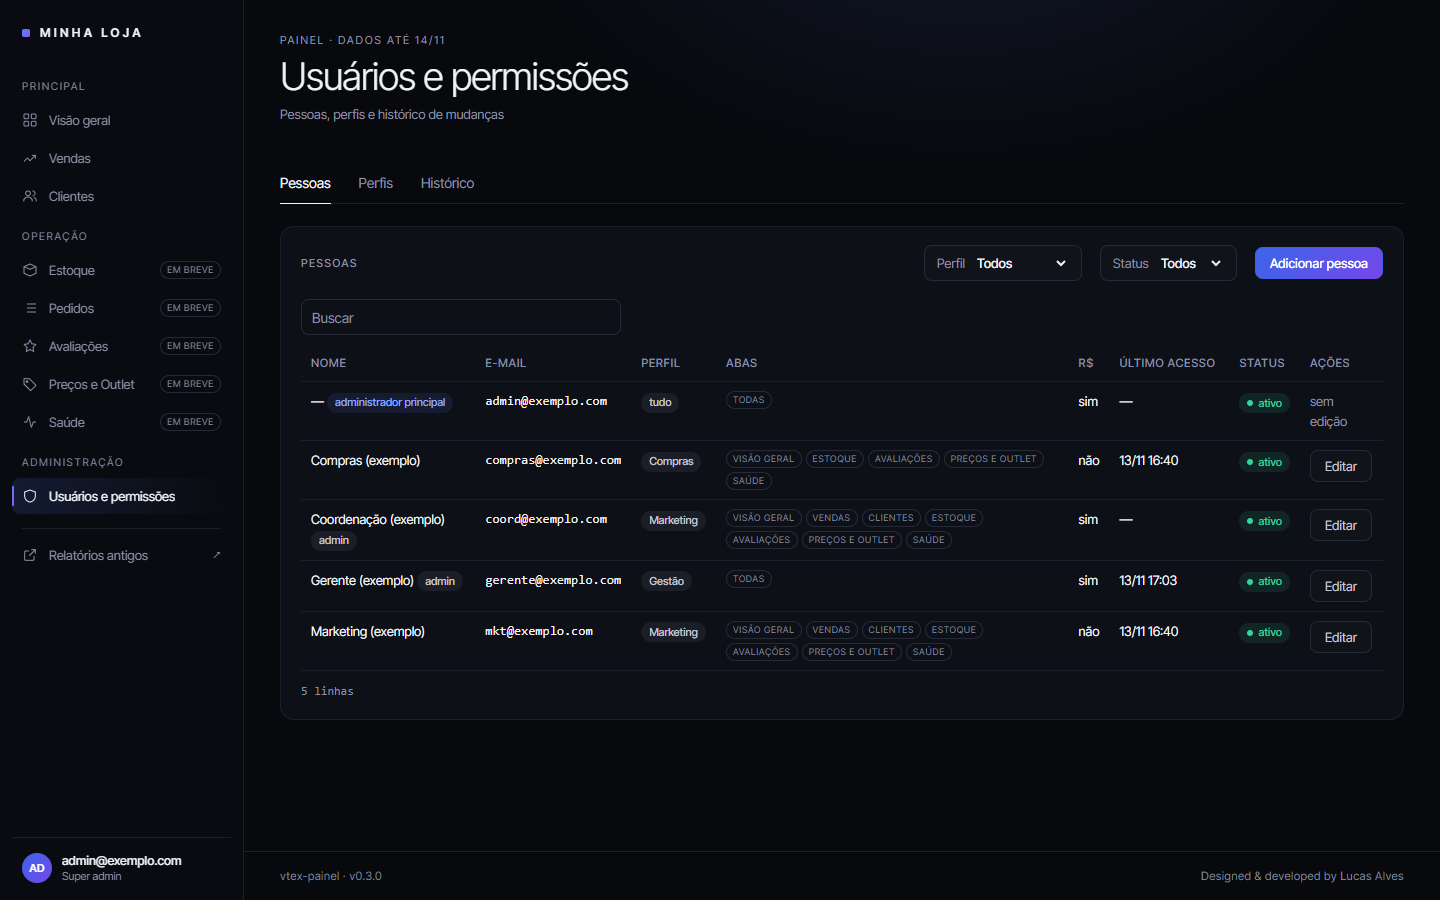
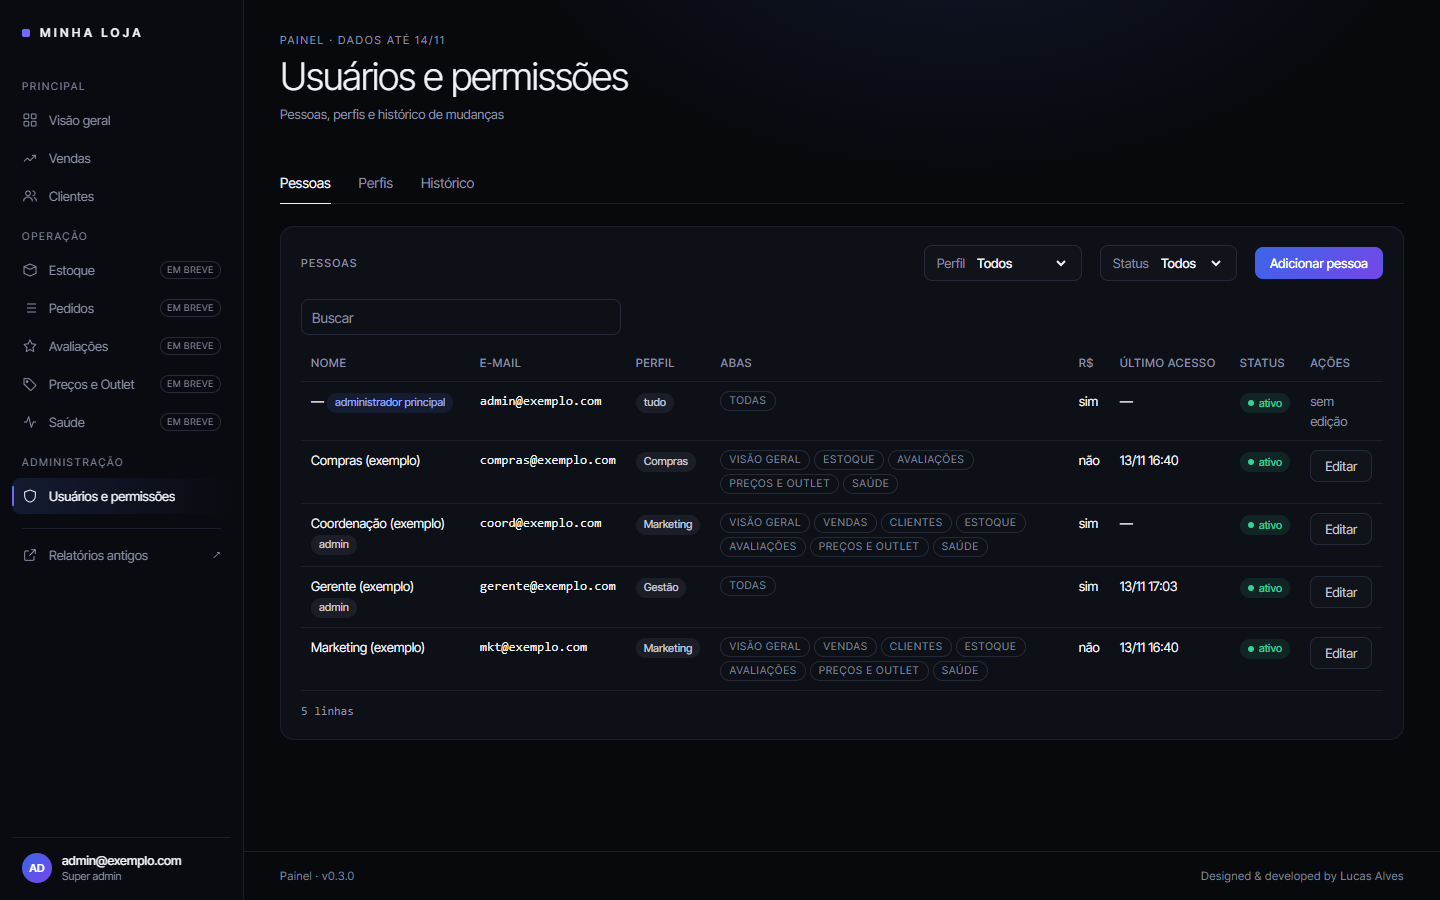
fix(visual-azul): contraste do botão, selos legíveis e rótulos do celular

diff --git a/public/css/app.css b/public/css/app.css
@@ -135,7 +135,7 @@ h2 { font-size: 15px; line-height: 20px; }
   background: linear-gradient(180deg, var(--accent), var(--accent-2));
 }
 .menu a:focus-visible { outline-offset: -2px; border-radius: var(--radius); }
-.menu .selo { margin-left: auto; }
+.menu .selo { margin-left: auto; height: 18px; padding: 0 6px; font-size: 9px; }
 .menu-externo { margin-left: auto; color: var(--grupo); font-size: 12px; }
 .menu-sep { color: var(--grupo); font-size: 10.5px; line-height: 14px; letter-spacing: .16em; text-transform: uppercase; padding: 16px 10px 8px; }
 .menu-sep:empty { padding: 0; margin: 14px 10px 8px; border-top: 1px solid var(--rule); }
@@ -149,7 +149,7 @@ h2 { font-size: 15px; line-height: 20px; }
 .lateral-nome { font-size: 12.5px; line-height: 17px; font-weight: 500; overflow: hidden; text-overflow: ellipsis; white-space: nowrap; }
 .lateral-perfil { font-size: 11px; line-height: 15px; color: var(--muted); overflow: hidden; text-overflow: ellipsis; white-space: nowrap; }
 .selo {
-  display: inline-flex; align-items: center; height: 18px; padding: 0 6px; border-radius: 999px; font-size: 9px;
+  display: inline-flex; align-items: center; height: 20px; padding: 0 8px; border-radius: 999px; font-size: 10.5px;
   letter-spacing: .08em; text-transform: uppercase; color: var(--grupo); border: 1px solid var(--border); background: transparent; white-space: nowrap;
 }
 .selo-aviso { color: var(--warn); } .selo-erro { color: var(--bad); }
@@ -222,7 +222,7 @@ h2 { font-size: 15px; line-height: 20px; }
 .seta { color: var(--muted); font-size: 10px; }
 .btn-limpar {
   height: 36px; padding: 0 4px; color: var(--muted); font-size: 13px;
-  text-decoration: underline; text-decoration-color: var(--rule); text-underline-offset: 6px;
+  text-decoration: underline; text-decoration-color: var(--muted); text-underline-offset: 6px;
 }
 .btn-limpar:hover { color: var(--text); text-decoration-color: currentColor; }
 
@@ -285,7 +285,7 @@ input[type="date"].input { color-scheme: dark; font-family: var(--mono); font-si
 .btn:disabled { opacity: .4; }
 /* botão principal: degradê com texto branco (versão escurecida do degradê, para AA; ver o topo) */
 .btn.primario { background: var(--grad-texto); border-color: transparent; color: #fff; font-weight: 500; }
-.btn.primario:hover:not(:disabled) { color: #fff; background: var(--grad-texto); border-color: transparent; filter: brightness(1.1); }
+.btn.primario:hover:not(:disabled) { color: #fff; background: var(--grad-texto); border-color: transparent; box-shadow: 0 0 0 1px var(--accent-texto); }
 
 /* ---------- avisos ---------- */
 .avisos { padding: 12px var(--gutter) 0; display: flex; flex-direction: column; gap: 6px; }
@@ -549,10 +549,10 @@ button.barra-linha:hover .pilha { filter: brightness(1.15); }
 @media (max-width: 600px) {
   .cartoes .s3, .cartoes .s4 { grid-column: span 6; }
   .grade.cartoes { gap: 10px; }
-  .cartoes .card { padding: 12px 12px 10px; min-height: 148px; } /* pé em até duas linhas (pílula + sub) */
+  .cartoes .card { padding: 12px 12px 10px; min-height: 134px; } /* rótulo em até duas linhas + pé em até duas (pílula + sub) */
   .cartoes .cartao-valor { font-size: 22px; line-height: 28px; letter-spacing: -.03em; margin: 8px 0 6px; }
-  .cartoes .cartao-rotulo { font-size: 10px; letter-spacing: .08em; }
-  .cartoes .cartao-topo { min-height: 22px; }
+  .cartoes .cartao-rotulo { font-size: 10px; line-height: 13px; letter-spacing: .08em; white-space: normal; overflow: visible; text-overflow: clip; } /* quebra em 2 linhas, sem reticência */
+  .cartoes .cartao-topo { min-height: 26px; align-items: flex-start; }
   .cartoes .cartao-icone { width: 22px; height: 22px; }
   .cartoes .cartao-icone .icone { width: 12px; height: 12px; }
   /* esqueleto com a mesma altura do cartão pintado (valor de 28 px e margens menores no celular) */
@@ -571,7 +571,7 @@ button.barra-linha:hover .pilha { filter: brightness(1.15); }
 .view.admin { gap: 22px; }
 .admin .card-head { margin-bottom: 18px; }
 
-/* abas internas (Pessoas, Perfis, Histórico): texto + sublinhado, como o menu */
+/* abas internas (Pessoas, Perfis, Histórico): texto + sublinhado no item ativo (sem caixa) */
 .abas-internas {
   display: flex; align-self: stretch; gap: 28px; padding: 0; border: 0; border-bottom: 1px solid var(--rule);
   border-radius: 0; background: none;

diff --git a/public/js/ui.js b/public/js/ui.js
@@ -70,7 +70,7 @@ const STATUS = { ok: 'ok', aviso: 'atenção', erro: 'problema', fora: 'fora do 
 export const pill = (status, texto) => `<span class="pill st-${esc(status)}"><i aria-hidden="true"></i>${esc(texto || STATUS[status] || status)}</span>`;
 
 // Rodapé do produto (crédito do autor), igual em toda instância.
-export const rodapeHtml = () => `<footer class="rodape"><span>vtex-painel · v${esc(VERSAO)}</span>
+export const rodapeHtml = () => `<footer class="rodape"><span>Painel · v${esc(VERSAO)}</span>
   <a href="https://github.com/alvesblucas" target="_blank" rel="noopener">Designed &amp; developed by Lucas Alves</a></footer>`;
 
 // Tira o estado "recarregando" que carregando() põe quando já havia conteúdo.
@@ -114,7 +114,7 @@ export function erroCartao(el, mensagem, tentar) {
 // O valor não quebra linha; se não couber, a reticência corta a vista e o title guarda o valor inteiro.
 export const cartaoHtml = ({ rotulo, valor, sub, delta: variacao, icone: nomeIcone }) => {
   const svg = nomeIcone ? icone(nomeIcone) : '';
-  return `<div class="cartao-topo"><div class="cartao-rotulo">${esc(rotulo)}</div>${svg ? `<span class="cartao-icone">${svg}</span>` : ''}</div>
+  return `<div class="cartao-topo"><div class="cartao-rotulo" title="${esc(rotulo)}">${esc(rotulo)}</div>${svg ? `<span class="cartao-icone">${svg}</span>` : ''}</div>
     <div class="cartao-valor num"${valor != null && valor !== '—' ? ` title="${esc(valor)}"` : ''}>${esc(valor ?? '—')}</div>
     ${variacao || sub ? `<div class="cartao-pe">${variacao ?? ''}${sub ? `<span class="cartao-sub">${esc(sub)}</span>` : ''}</div>` : ''}`;
 };
